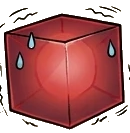
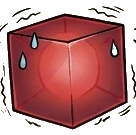
Recorte final: marco borrado por su linea (mascara de negro-marco), cubos solidos y expresiones completas
Claude-Session: https://claude.ai/code/session_01E3vXZPJtAEyM9MxmSxV3Lz

diff --git a/tools/recorta_emociones.py b/tools/recorta_emociones.py
@@ -137,11 +137,57 @@ def quita_fondo(panel):
     """
     rgb = panel.convert('RGB')
     w, h = rgb.size
-    # Solo se inunda el CREMA CLARO, desde el borde y varios anillos hacia
-    # dentro. Nunca se toca nada oscuro, así que el cubo (rojo oscuro) y sus
-    # contornos quedan INTACTOS. El panel ya viene recortado por dentro del
-    # marco, así que aquí solo queda crema/piso/sombra que quitar.
-    for fx in (0.0, 0.03, 0.06, 0.10):
+
+    # ── 1) BORRAR SOLO LA LÍNEA DEL MARCO ──────────────────────────────────
+    # Se localiza cada lado del marco (la fila/columna más negra cerca de cada
+    # borde) y se limpia ESA banda fina, solo sus píxeles oscuros. Así el marco
+    # se va pero los garabatos que lo cruzan (nubes, WOW, lámpara) y la punta
+    # del cubo se quedan enteros: solo pierden el pelo de píxel donde pisan la
+    # raya del marco.
+    gray = panel.convert('L')
+    # Máscara SOLO de negro-marco (~15), NO del rojo oscuro del cubo (~47): así
+    # una fila/columna que cruza el cubo casi no cuenta, y solo las líneas
+    # realmente negras del marco superan el listón.
+    mk = gray.point(lambda p: 255 if p < 42 else 0)
+    rows = _perfil_filas(mk, h)
+    cols = _perfil_columnas(mk, w)
+    gpx = gray.load()
+
+    # Una FILA del marco está casi toda negra (línea de borde a borde); un
+    # garabato solo ennegrece un trozo. Se limpia toda fila/columna del borde
+    # que supere el umbral -> se va el marco entero, caiga donde caiga, sin
+    # tocar el cubo (que está en el centro, fuera de estas bandas).
+    # Una línea del marco es negra casi de punta a punta (fila/columna ~90%+
+    # oscura). Una fila/columna que cruza el CUBO llega como mucho a ~60%
+    # (el cubo no ocupa todo el alto y tiene brillos claros). Con el listón
+    # alto se borra el marco entero y jamás se toca el cubo, aunque se
+    # ensanche la banda.
+    LINEA = 120   # con la máscara de negro-marco, una línea llena supera esto;
+                  # una fila/columna que cruza el cubo (solo su contorno) no.
+
+    def _limpia_filas(lo, hi):
+        for yy in range(max(0, lo), min(h, hi)):
+            if rows[yy] > LINEA:
+                for xx in range(w):
+                    if gpx[xx, yy] < 130:
+                        rgb.putpixel((xx, yy), MARCA)
+
+    def _limpia_cols(lo, hi):
+        for xx in range(max(0, lo), min(w, hi)):
+            if cols[xx] > LINEA:
+                for yy in range(h):
+                    if gpx[xx, yy] < 130:
+                        rgb.putpixel((xx, yy), MARCA)
+
+    _limpia_filas(0, int(0.20 * h))
+    _limpia_filas(int(0.80 * h), h)
+    _limpia_cols(0, int(0.20 * w))
+    _limpia_cols(int(0.80 * w), w)
+
+    # ── 2) INUNDAR SOLO EL CREMA CLARO ─────────────────────────────────────
+    # Desde el borde (crema exterior) y desde anillos por dentro del marco
+    # (crema interior). Nunca se toca nada oscuro -> el cubo queda INTACTO.
+    for fx in (0.0, 0.04, 0.09, 0.14):
         for sx, sy in _anillo(w, h, fx):
             r, g, b = rgb.getpixel((sx, sy))
             if (r + g + b) / 3 > 150 and rgb.getpixel((sx, sy)) != MARCA:
@@ -213,12 +259,13 @@ def main():
     for f, (ry0, ry1) in enumerate(filas):
         for c, (cx0, cx1) in enumerate(cols):
             nombre = FILAS[f][c]
-            # panel COMPLETO con margen: garantiza que el marco entra entero
-            ex = int((cx1 - cx0) * 0.04)
-            ey = int((ry1 - ry0) * 0.04)
+            # panel COMPLETO con margen generoso: entran TODOS los garabatos,
+            # incluso los que cruzan el marco (nubes, WOW, lámpara). El marco lo
+            # borra quita_fondo() por su línea, no recortándolo.
+            ex = int((cx1 - cx0) * 0.06)
+            ey = int((ry1 - ry0) * 0.06)
             panel = im.crop((max(0, cx0 - ex), max(0, ry0 - ey),
                              min(W, cx1 + ex), min(H, ry1 + ey)))
-            panel = dentro_del_marco(panel)   # recorta por dentro del marco
             cara = quita_fondo(panel)
             cara.save(os.path.join(STATIC, 'emo-%s.png' % nombre))
             caras.append((nombre, cara))
